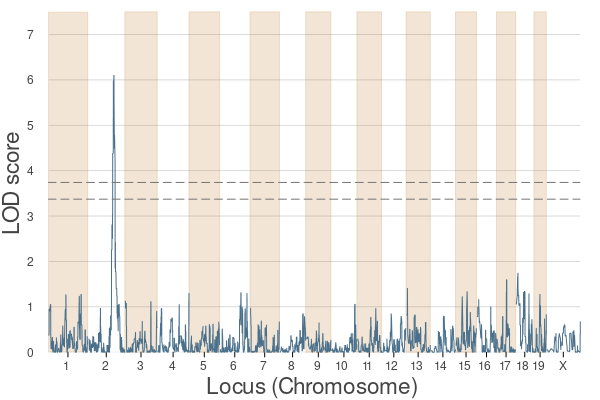
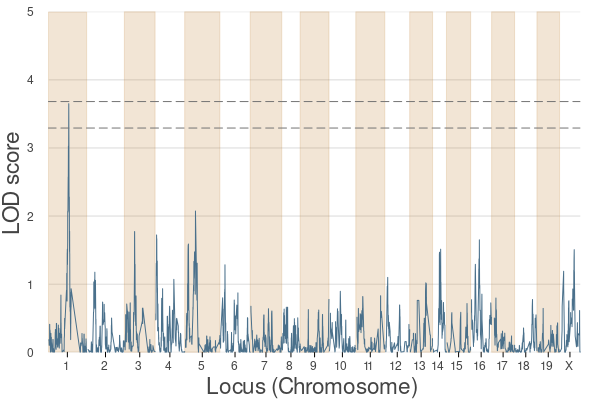
updated nb

diff --git a/README.md b/README.md
@@ -98,20 +98,27 @@ Load bxd data using the function `get_geneticstudydata()`:
 data = get_geneticstudydata(file);
 ```
 
+```julia
+# The current version of `BigRiverQTL` does not have imputation functions.
+# Remove the  missing data
+data = get_data_completecases(data);
+```
 
 ```julia
 # Data types
+# gmap contains 
 # makers info 
 gInfo = data.gmap;
-# pehnotype info 
+
+# phenotype info 
 pInfo = data.phenocov;
 # phenotype values 
 pheno = data.pheno.val;
 
-# We can get the genotype matrix using the following command:
-geno = reduce(hcat, data.geno.val);
-# For computing reasons, we need to convert the geno matrix in Float64
-geno_processed = convert(Array{Float64}, geno);
+# We can get the genotype matrix using the following command.
+# For computing reasons, we need to convert the geno matrix in Float64.
+# One way to do it is to multiply by 1.0
+geno = reduce(hcat, data.geno.val).*1.0;
 ```
 
 #### Preprocessing
@@ -123,9 +130,9 @@ geno_processed = convert(Array{Float64}, geno);
 #################
 traitID = 1112;
 pheno_y = pheno[:, traitID];
-pheno_y2=ones(length(pheno_y));
-idx_nothing = findall(x->x!=nothing,pheno_y)
-pheno_y2[idx_nothing]=pheno_y[idx_nothing];
+pheno_y2 = ones(length(pheno_y));
+idx_not_missing = findall(!ismissing, pheno_y)
+pheno_y2[idx_not_missing] = pheno_y[idx_not_missing];
 ```
 
 #### Kinship
@@ -135,7 +142,7 @@ pheno_y2[idx_nothing]=pheno_y[idx_nothing];
 ###########
 # Kinship #
 ###########
-kinship = kinship_gs(geno_processed,.99);
+kinship = kinship_gs(geno,.99);
 ```
 
 #### Scan
@@ -148,7 +155,7 @@ kinship = kinship_gs(geno_processed,.99);
 
 single_results_perms = scan(
 	pheno_y2,
-	geno_processed,
+	geno,
 	kinship;
 	permutation_test = true,
 	nperms = 1000,
@@ -169,10 +176,10 @@ single_results_perms = scan(
 plot_QTL(single_results_perms, gInfo, mbColname = "Pos")
 
 ```
-![image](images/QTL_example.png)
+![image](images/QTL_thrs_example.png)
 
 ```julia
 # Manhattan plots
 plot_manhattan(single_results_perms, gInfo, mbColname = "Pos")
 ```
-![image](images/manhattan_example.png)
+![image](images/manhattan_thrs_example.png)
